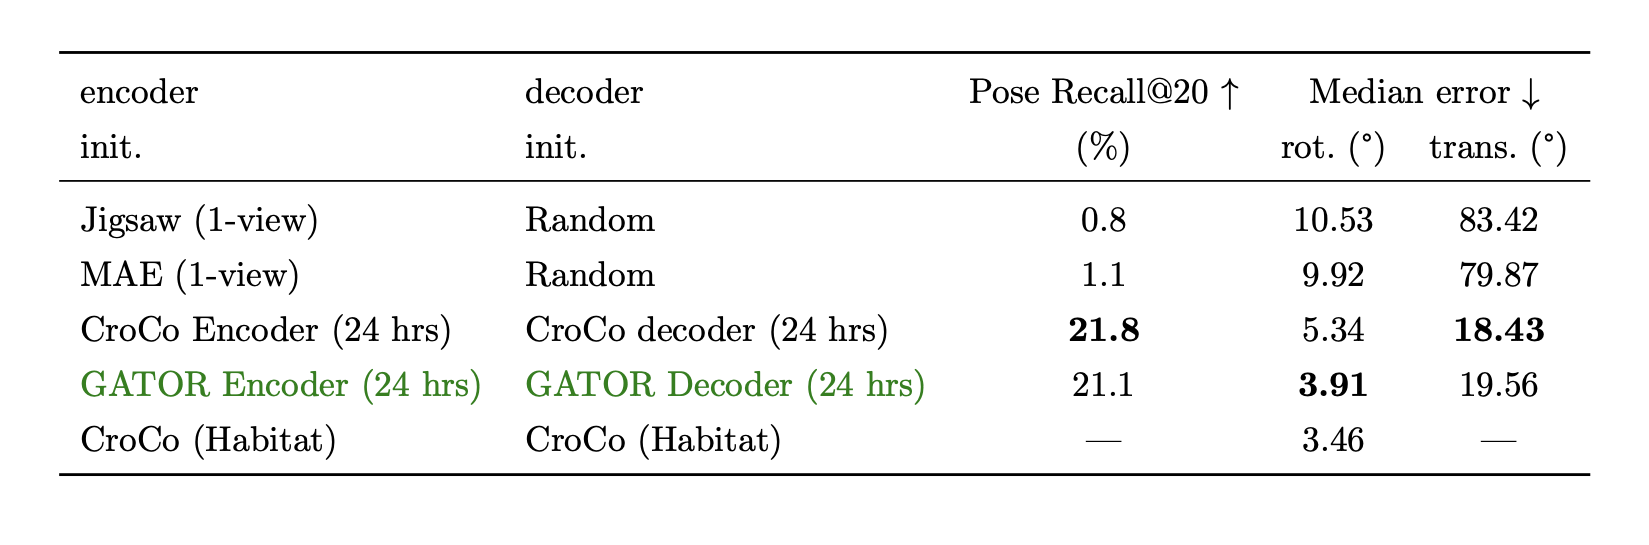
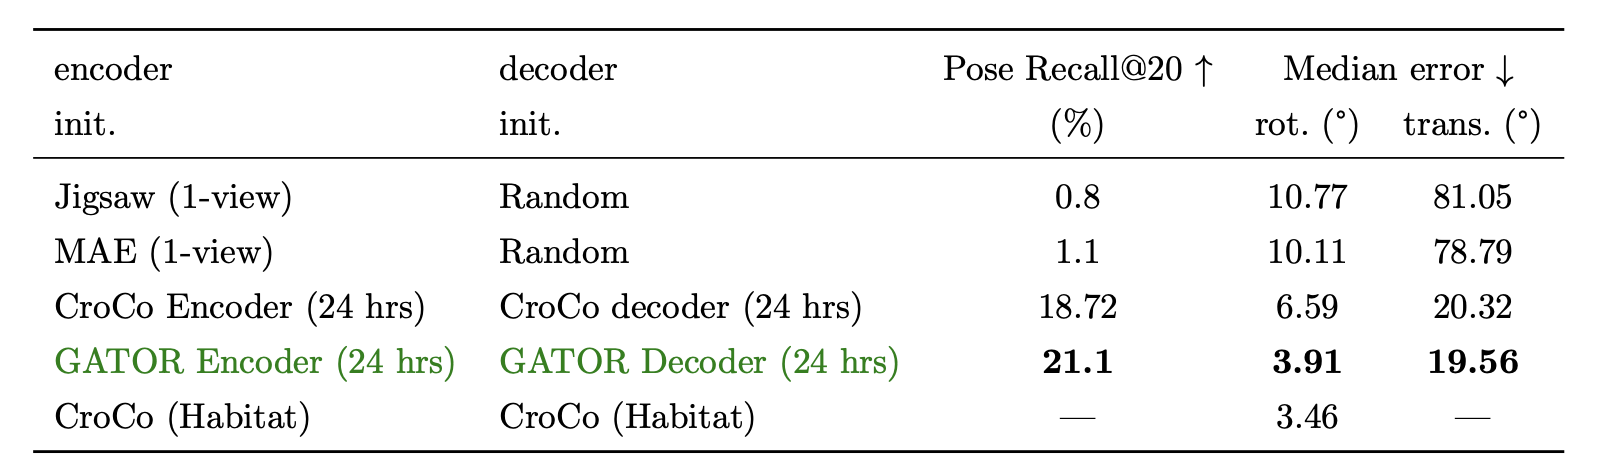
related work + results table + ref + contrib

diff --git a/index.html b/index.html
@@ -302,23 +302,37 @@
         <div class="column is-full-width">
           <h2 class="title is-3" id="related-work">II. Related Works</h2>
           <div class="content has-text-justified">
-            <p>
-              Jigsaw puzzle solving has been widely studied as a pretext task for representation learning.
-              Prior work shows that predicting the correct arrangement of shuffled patches improves 
-              spatial reasoning and benefits tasks such as image classification and video 
-              understanding <a href="https://arxiv.org/abs/1603.09246">[6]</a>, <a href="https://arxiv.org/abs/2207.11971">[7]</a>, <a href="https://arxiv.org/abs/1808.07507">[8]</a>.
-              However, prior methods are typically single-view and not designed for cross-view 3D geometric learning.
-              The work most closely related to ours is CroCo <a href="https://arxiv.org/abs/2210.10716">[2]</a>, 
-              which performs cross-view masked reconstruction for 3D vision. 
-              CroCo receives two views of the same scene: one clean reference image and one partially masked image. 
-              Using an encoder-decoder architecture, it reconstructs the missing patches of the masked image by leveraging 
-              information from both views. 
-              This cross-view reconstruction objective encourages the model to learn geometric correspondences 
-              and scene structure. In contrast, our method replaces reconstruction with a two-view jigsaw objective,
-              using patch-order prediction as the pretraining signal.
+                <p>
+                  Jigsaw-based pretraining uses patch reordering as a self-supervised signal.
+                  Early jigsaw methods showed that predicting the correct arrangement of shuffled
+                  image patches can encourage spatial reasoning and improve visual representations
+                  <a href="https://arxiv.org/abs/1603.09246">[6]</a>. 
+                  Jigsaw puzzle solving has been widely studied as a self-supervised pretext task 
+                  for visual representation learning. The main idea is to shuffle image patches and 
+                  train the model to recover their original spatial arrangement, encouraging the 
+                  representation to capture spatial layout rather than only local appearance. 
+                  This idea has been explored in both convolutional models and Vision Transformers, 
+                  including Jigsaw-ViT, where the patch-based structure of ViTs makes the jigsaw 
+                  objective a natural fit <a href="https://arxiv.org/abs/1603.09246">[5]</a>, 
+                  <a href="https://arxiv.org/abs/2207.11971">[6]</a>. However, these methods 
+                  are mainly single-view: they learn spatial structure within one image, but 
+                  they are not explicitly trained to reason across two different views of 
+                  the same scene.
+                </p>
 
-
-            </p>
+                <p>
+                  Cross-view pretraining is especially important for 3D vision, where downstream 
+                  tasks often require geometric reasoning between image pairs. CroCo is the closest 
+                  work to ours in this setting <a href="https://arxiv.org/abs/2210.10716">[2]</a>. 
+                  It receives a clean reference image and a masked target image, and learns to 
+                  reconstruct the missing target patches by using information from both views. 
+                  This objective encourages the model to learn scene structure and cross-view 
+                  correspondences. Gator follows the same cross-view motivation, but replaces 
+                  masked pixel reconstruction with patch-order prediction. In this way, the model 
+                  is trained to use the reference view to solve a jigsaw task, focusing the 
+                  pretraining signal on spatial organization and correspondence reasoning rather 
+                  than low-level pixel recovery.
+                </p>
           </div>
         </div>
       </div>
@@ -1186,12 +1200,6 @@
                 representations by solving jigsaw puzzles,” 2017. [Online].
                 Available: <a href="https://arxiv.org/abs/1603.09246">https://arxiv.org/abs/1603.09246</a>
               </li>
-
-              <li>
-                M. Noroozi and P. Favaro, “Unsupervised learning of visual
-                representations by solving jigsaw puzzles,” 2017. [Online].
-                Available: https://arxiv.org/abs/1603.09246
-              </li>
               
               <li>
                 Y. Chen, X. Shen, Y. Liu, Q. Tao, and J. A. K. Suykens,
@@ -1359,7 +1367,10 @@
               all models (MAE, One-view jigsaw, CroCo and Gator) on the Optical Flow task, 
               and contributed equally to the website.
               <br>
-              S.B. finetuned the MAE model on the Relative Pose Regression task and contributed equally to the website.
+              S.B. implemented part of the Relative Pose Regression pipeline,
+              finetuned some of the models (MAE, One-view jigsaw, CroCo) on the Relative Pose task
+              and contributed equally to the website. She conducted experiments with image matching 
+              finetuning, but results were discarded due to implementation issues.
             </p>
             <p><em>
                 This website is based on the <a href="https://github.com/nerfies/nerfies.github.io"